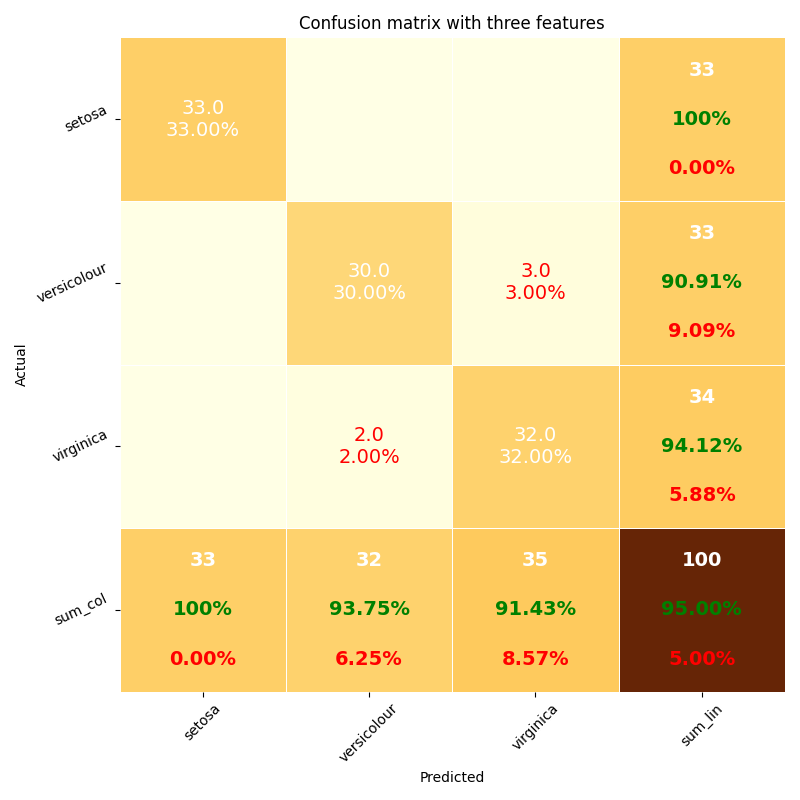
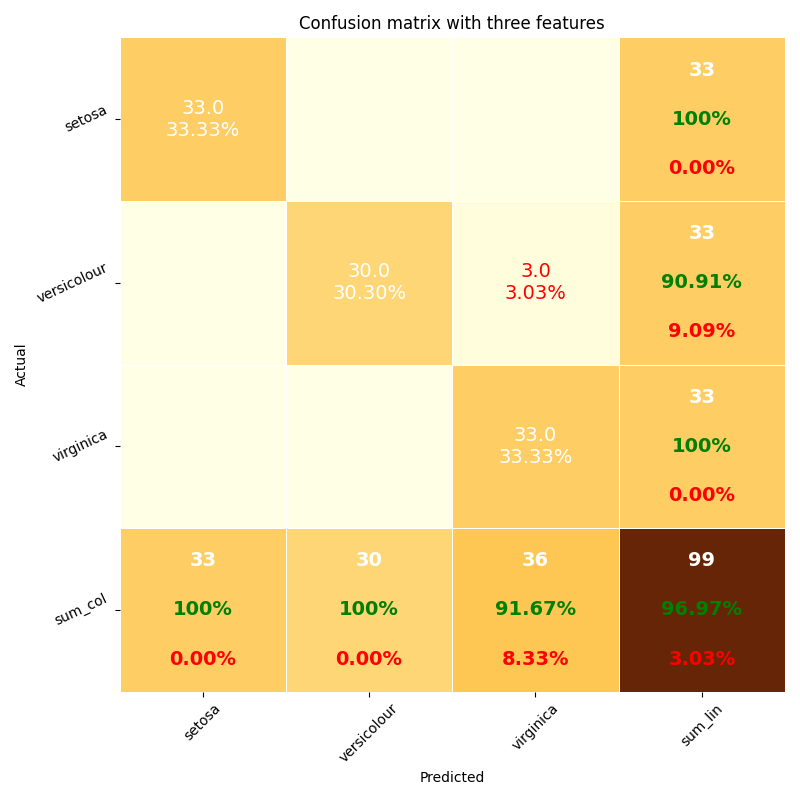
j

diff --git a/IrisClassificationTask2.py b/IrisClassificationTask2.py
@@ -86,7 +86,7 @@ def dataset_split(train_num, test_num, invert_order=False, C=3):
     return training_features, labels_training, test_features, labels_test
 
 
-def train(training_features, labels_training, learning_rate=0.005, epochs=100000, C=3, D=4):
+def train(training_features, labels_training, learning_rate=0.0001, epochs=1000000, C=3, D=4):
     """
     Training to adjust the weights and bias of the linear classifier.
 
@@ -249,7 +249,6 @@ print()
 
 df_cm = DataFrame(confusion_test, index=["setosa","versicolour","virginica"], columns=["setosa","versicolour","virginica"])
 pretty_plot_confusion_matrix("confusion_matrix_two_features.png", df_cm,title='Confusion matrix with two',cmap="YlOrBr",pred_val_axis='x')
-
 
 # Remove petal length from features
 training_features, test_features = np.delete(training_features, 1, 1), np.delete(test_features, 1, 1)
